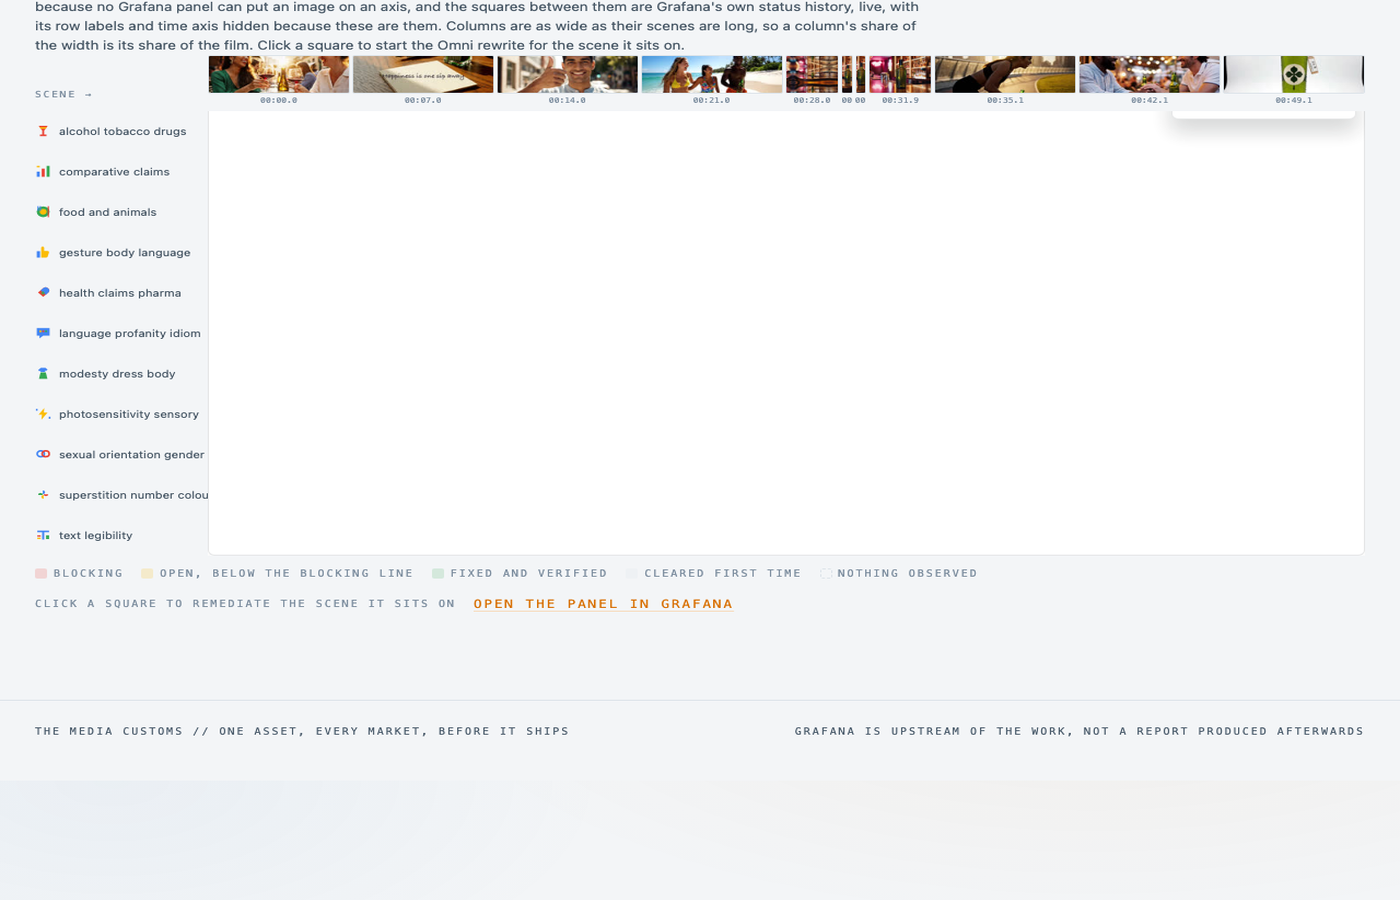
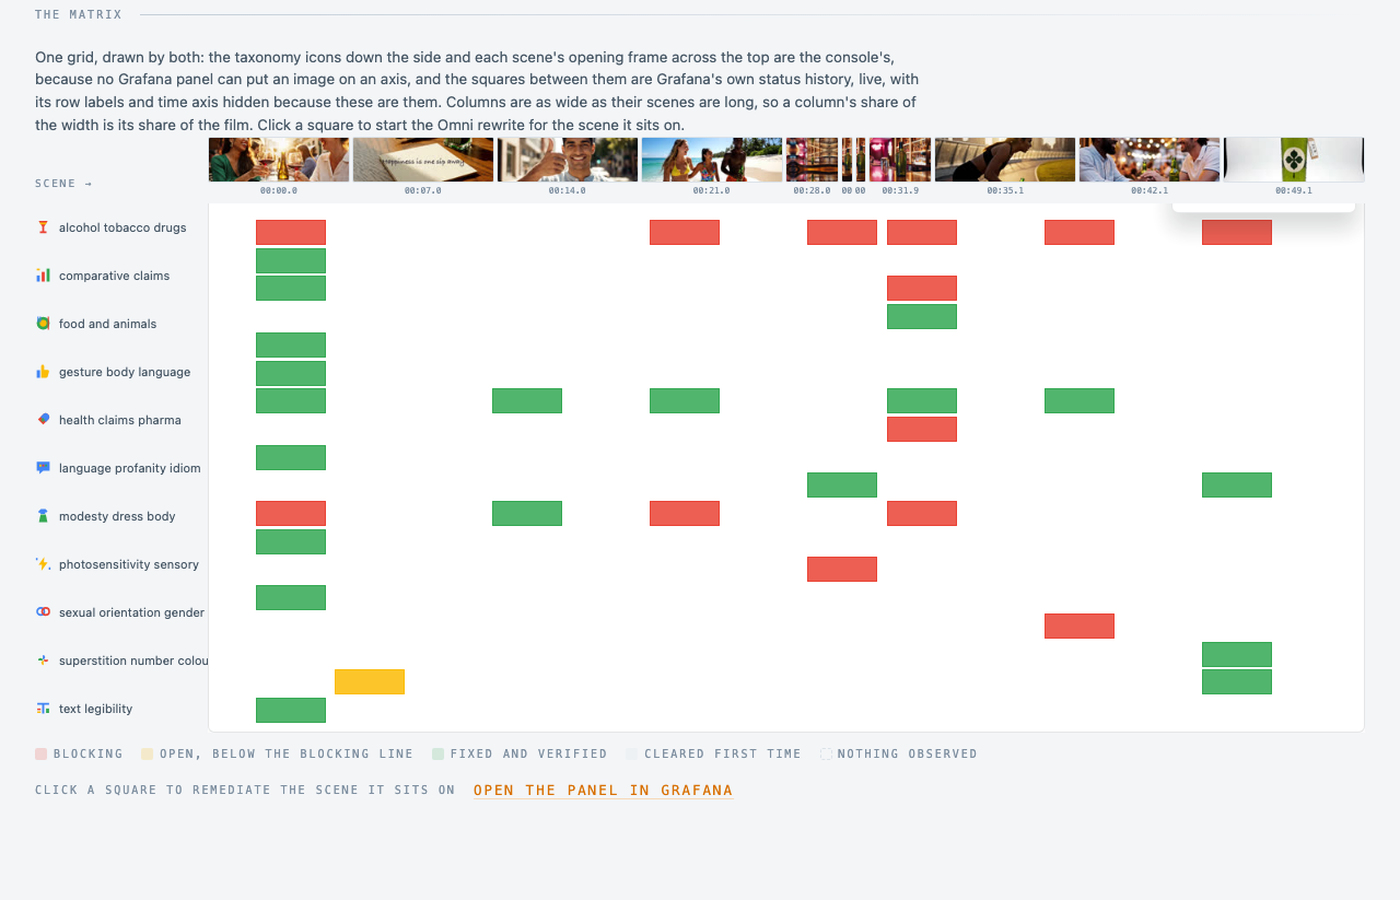
docs: the grid and cutting-room screenshots show what the page shows

diff --git a/scripts/make_screenshots.py b/scripts/make_screenshots.py
@@ -43,6 +43,62 @@ def resize(src: Path, size, dest: Path) -> Path:
     return dest
 
 
+# JS that runs on the live page before the shutter, per job. A headless
+# Chrome CLI cannot run any: that is how the grid shipped with a white
+# body (the Grafana iframe never booted) and the cutting room with two
+# black players (a <video> at t=0 of a film that opens on black).
+GRID_READY = """async () => {
+  const f = document.querySelector('iframe.mg-live');
+  if (f.dataset.src !== undefined) { f.src = f.dataset.src; delete f.dataset.src; }
+  await Promise.race([new Promise(r => f.addEventListener('load', r, {once: true})),
+                      new Promise(r => setTimeout(r, 15000))]);
+}"""
+# The AE pair, seeked 2.5s INTO its edit: the page opens every pair half a
+# second before its first change, where an edited master and its original
+# are identical by definition, and GLOBAL's fix is a revoice with the
+# picture untouched. AE is a prop swap, which is a difference a still can show.
+CUTTING_READY = """async () => {
+  const pair = document.querySelector('.pair[data-pair="AE"]');
+  pair.closest('section').scrollIntoView({block: 'start'});
+  window.scrollBy(0, -(document.querySelector('header').getBoundingClientRect().height + 8));
+  for (const v of pair.querySelectorAll('video')) {
+    v.preload = 'auto';
+    const want = (parseFloat(v.src.split('#t=')[1] || '0') || 0) + 2.5;
+    await new Promise(r => v.readyState >= 1 ? r() : v.addEventListener('loadedmetadata', r, {once: true}));
+    v.currentTime = want;
+    await new Promise(r => v.addEventListener('seeked', r, {once: true}));
+  }
+}"""
+
+
+def browse(url: str, cookie: str, dest: Path, height: int, ready: str) -> Path:
+    """The live page in a real browser, with `ready` awaited before the shot.
+
+    Playwright rather than the Chrome CLI, because two of these pages need
+    something a screenshot cannot do: wait for an iframe to boot, and
+    seek a <video>.
+    """
+    from playwright.sync_api import sync_playwright
+
+    with sync_playwright() as p:
+        browser = p.chromium.launch()
+        ctx = browser.new_context(viewport={"width": WIDTH, "height": height})
+        name, _, value = cookie.partition("=")
+        ctx.add_cookies([{"name": name, "value": value, "url": url}])
+        page = ctx.new_page()
+        page.goto(url, wait_until="domcontentloaded", timeout=120_000)
+        page.evaluate(ready)
+        # The viewer is another origin, so page JS cannot see whether a
+        # framed panel has drawn; Playwright can.
+        for frame in page.frames:
+            if "/d-solo/" in frame.url:
+                frame.wait_for_selector("canvas, svg.uplot", timeout=90_000)
+        page.wait_for_timeout(2000)
+        page.screenshot(path=str(dest))
+        browser.close()
+    return dest
+
+
 def main() -> int:
     ap = argparse.ArgumentParser()
     ap.add_argument("--base", default="https://customs-app-akap4ao72a-ew.a.run.app")
@@ -89,7 +145,7 @@ def main() -> int:
         "archive": ("/runs", OUT / "02-archive.png", (SHOT_W, 900), 1500,
                     120000, {"live": True, "crop_to": 560}),
         "grid": (f"/runs/{run}/timeline", OUT / "04-timeline-grid.png",
-                 (SHOT_W, 900), 1500, 150000, {"live": True, "crop_to": 520}),
+                 (SHOT_W, 900), 1500, 0, {"ready": GRID_READY, "crop_to": 455}),
         # The board's Grafana half: the lanes panel, live, below the fold.
         "board_grafana": (f"/runs/{run}", OUT / "03b-board-grafana.png",
                           (SHOT_W, 760), 2100, 150000,
@@ -107,7 +163,7 @@ def main() -> int:
                         {"open_details": True, "open_scenes": True,
                          "crop_to": 820}),
         "cutting": (f"/runs/{run}/cutting", OUT / "08-cutting-room.png",
-                    (SHOT_W, 900), 950, 6000, {}),
+                    (SHOT_W, 900), 950, 0, {"ready": CUTTING_READY, "crop_to": 0}),
         "agent": ("/agent", OUT / "09-agent-mode.png", (SHOT_W, 900), 950,
                   6000, {}),
         "library": ("/library", OUT / "10-library.png", (SHOT_W, 900), 950,
@@ -139,9 +195,18 @@ def main() -> int:
             continue
         live = kw.pop("live", False)
         top = kw.pop("crop_to", 0)
-        raw = shot("" if live else page(path, **kw), tmp / f"{name}.png",
-                   tmp, height, budget,
-                   url=base.rstrip("/") + path if live else "")
+        ready = kw.pop("ready", "")
+        if ready:
+            raw = browse(base.rstrip("/") + path, args.cookie,
+                         tmp / f"{name}.png", height, ready)
+            # Cut to the README's own aspect instead of squashing to it.
+            raw = window(raw, top, tmp / f"{name}-cropped.png",
+                         height=round(WIDTH * size[1] / size[0]))
+            top = 0
+        else:
+            raw = shot("" if live else page(path, **kw), tmp / f"{name}.png",
+                       tmp, height, budget,
+                       url=base.rstrip("/") + path if live else "")
         if top:
             # A scroll, taken as a crop. Shooting the page short instead
             # would just cut the bottom off the thing being photographed.
